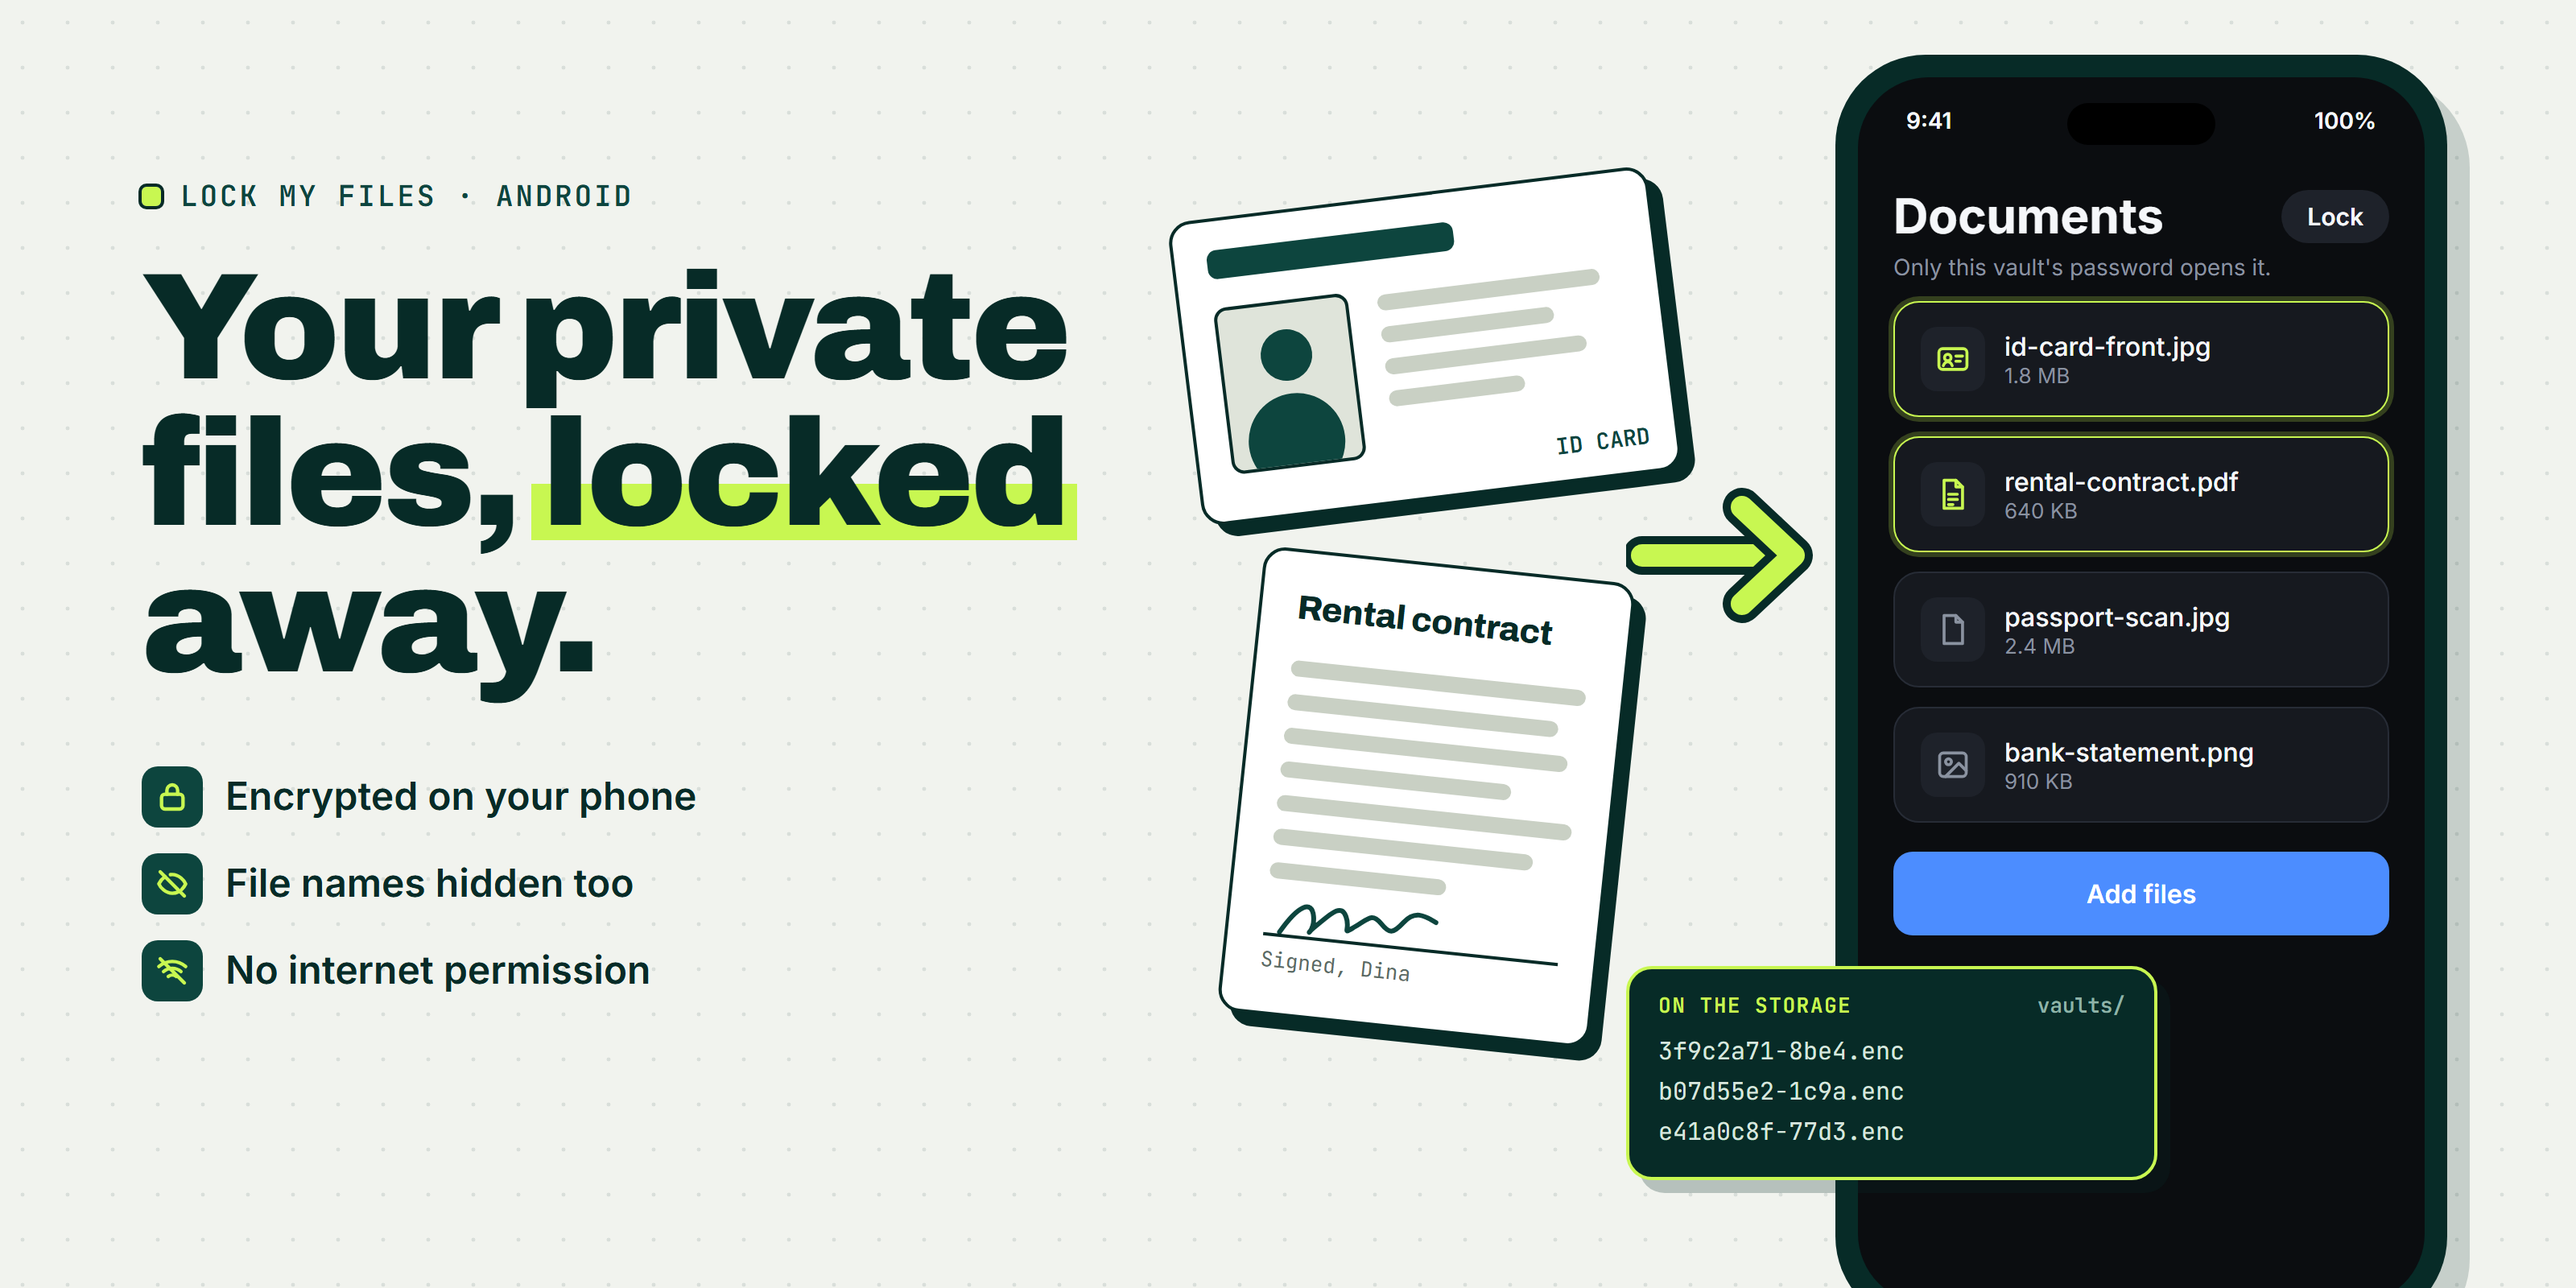
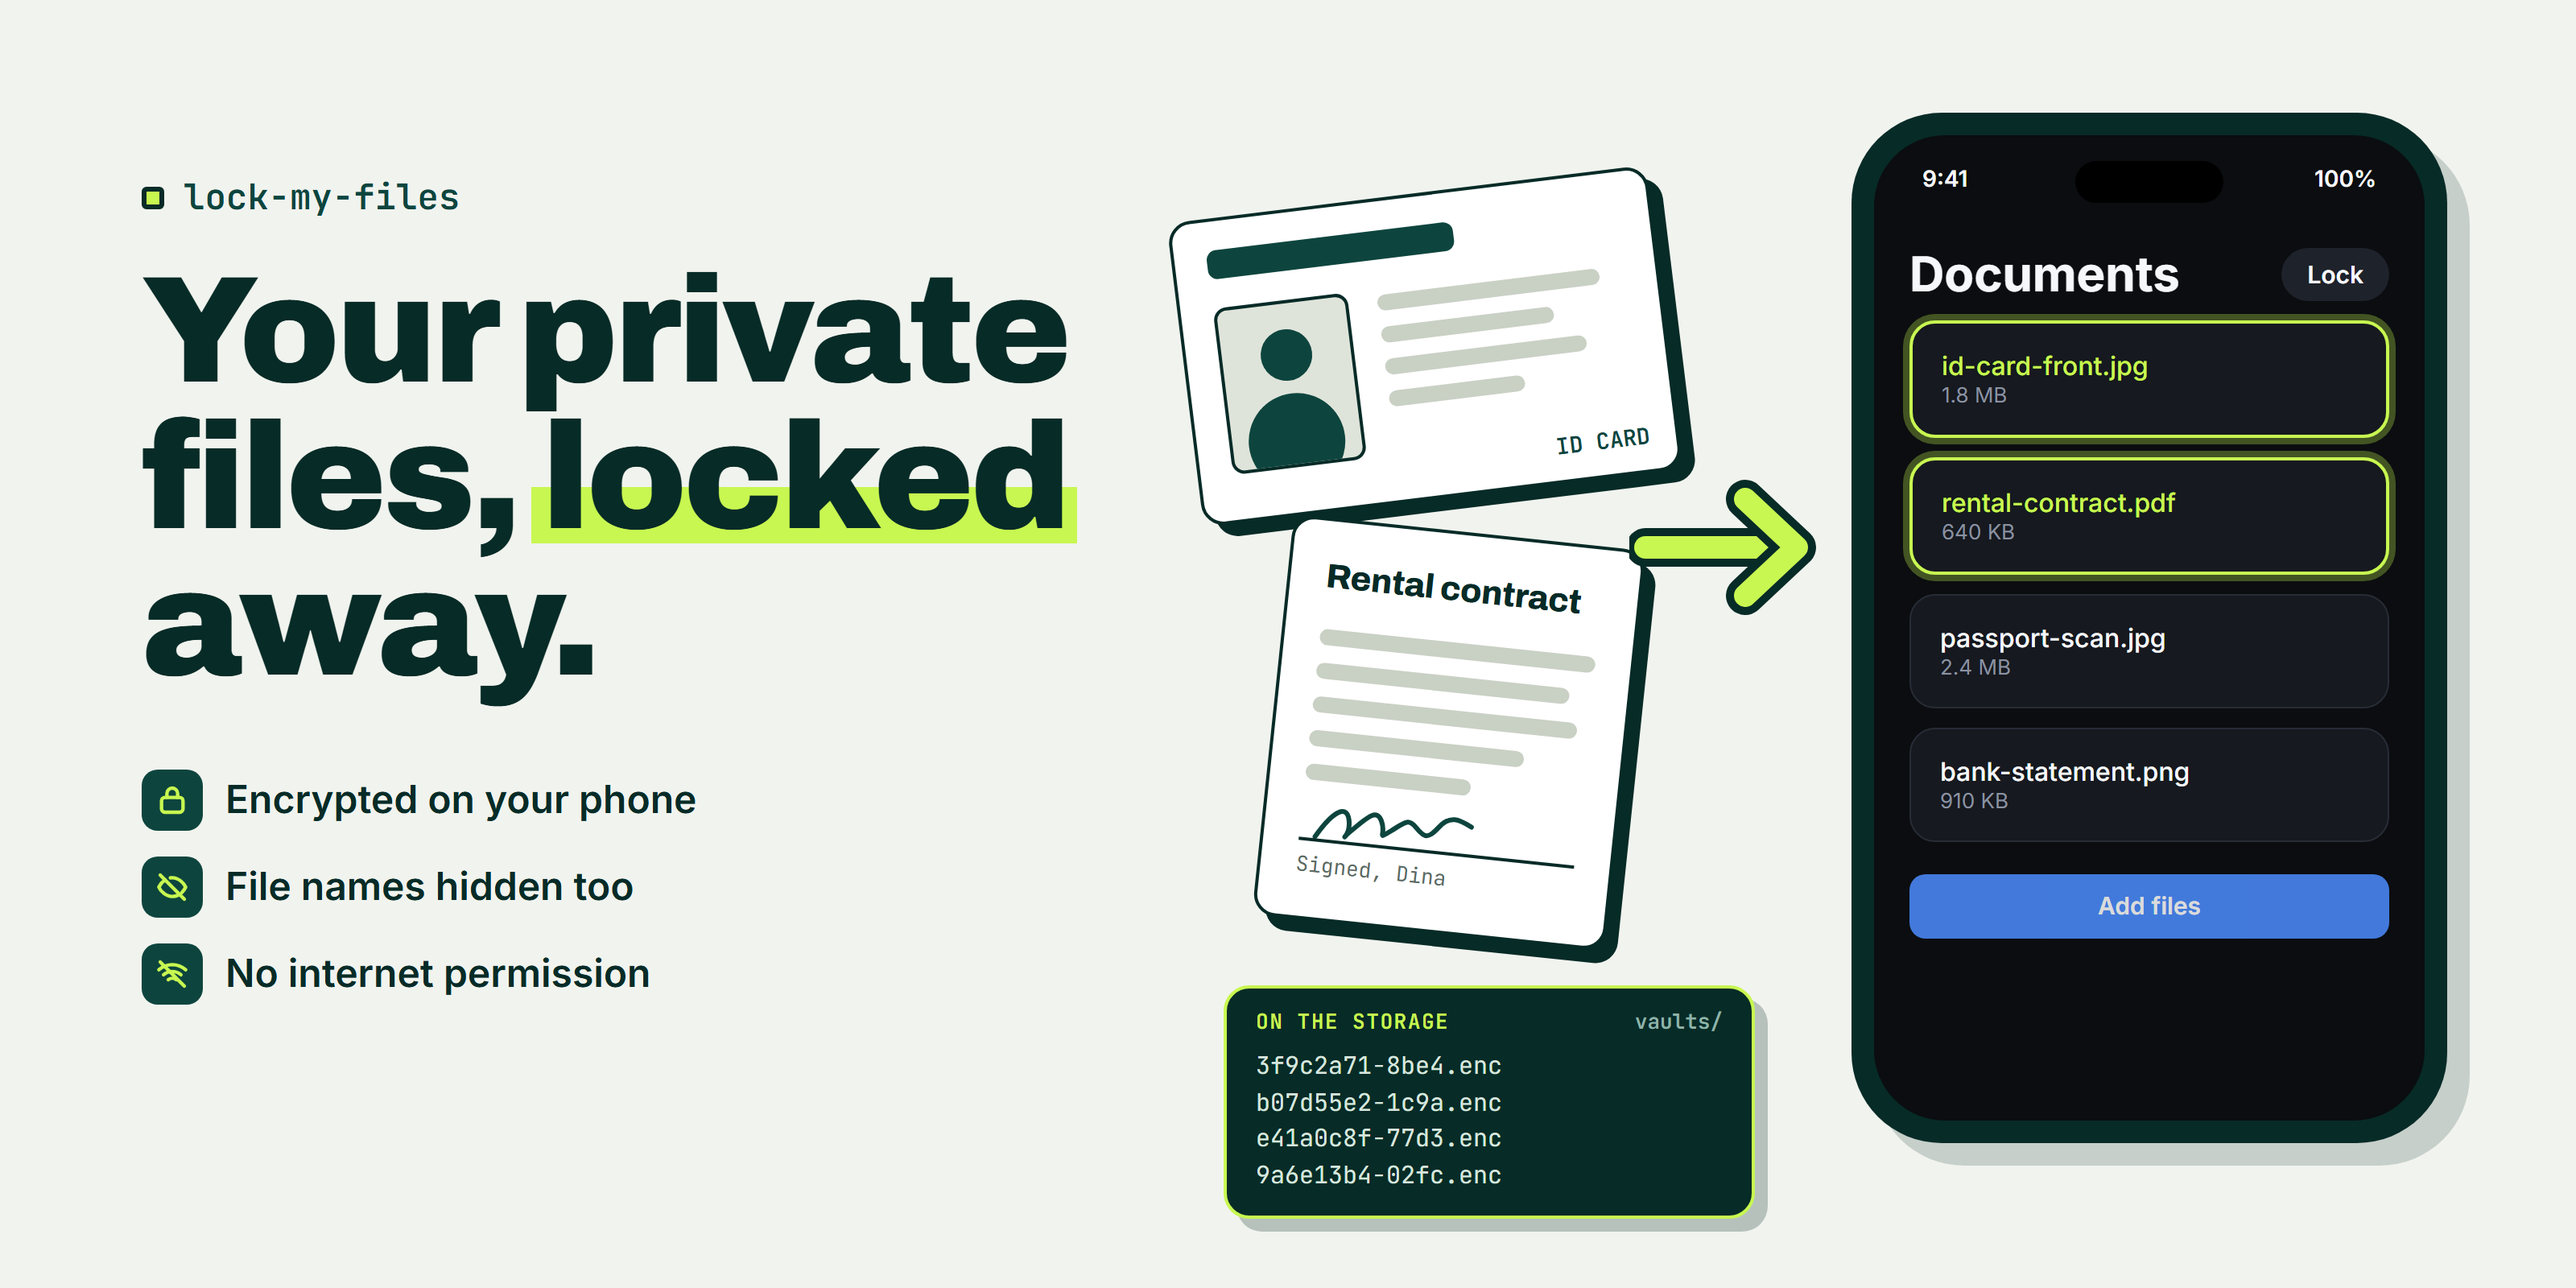
docs(readme): left-aligned header, early-build note moved to Quick start, hero matches the real vault screen

diff --git a/docs/src/hero.html b/docs/src/hero.html
@@ -27,9 +27,8 @@
 
   /* Left: headline */
   .copy { position: absolute; left: 88px; top: 112px; width: 660px; }
-  .eyebrow { display: inline-flex; align-items: center; gap: 12px; font: 600 18px/1 var(--mono);
-    letter-spacing: .08em; text-transform: uppercase; color: var(--field); }
-  .eyebrow .dot { width: 12px; height: 12px; border-radius: 3px; background: var(--signal); outline: 2px solid var(--ink); }
+  .eyebrow { display: inline-flex; align-items: center; gap: 12px; font: 700 22px/1 var(--mono); color: var(--field); }
+  .eyebrow .dot { width: 14px; height: 14px; border-radius: 3px; background: var(--signal); border: 3px solid var(--ink); }
   h1 { margin-top: 26px; font: 900 94px/0.97 var(--head); letter-spacing: -0.025em; color: var(--ink); }
   h1 mark { background: linear-gradient(transparent 56%, var(--signal) 56%, var(--signal) 90%, transparent 90%); color: inherit; padding: 0 6px; margin: 0 -6px; }
   .chips { margin-top: 44px; display: flex; flex-direction: column; gap: 16px; }
@@ -49,44 +48,44 @@
   .lines b { display: block; height: 10px; border-radius: 5px; background: #c9d0c4; }
   .idcard .tag { position: absolute; right: 16px; bottom: 14px; font: 600 14px/1 var(--mono); color: var(--field); }
 
-  .contract { left: 770px; top: 350px; width: 232px; height: 290px; transform: rotate(6deg); padding: 24px 22px; }
+  .contract { left: 790px; top: 330px; width: 220px; height: 250px; transform: rotate(6deg); padding: 24px 22px; }
   .contract h4 { font: 800 21px/1 var(--head); color: var(--ink); letter-spacing: -.01em; }
   .contract .lines { margin-top: 18px; gap: 11px; }
   .contract .sig { position: absolute; left: 22px; right: 22px; bottom: 26px; border-top: 2px solid var(--ink); padding-top: 8px; font: 500 13px/1 var(--mono); color: #5a6b65; }
   .contract .scrawl { position: absolute; left: 28px; bottom: 42px; }
 
-  .arrow { position: absolute; left: 1010px; top: 285px; }
+  .arrow { position: absolute; left: 1012px; top: 280px; }
 
   /* Right: phone with the vault screen */
-  .phone { position: absolute; left: 1140px; top: 34px; width: 380px; height: 790px; border-radius: 56px; background: var(--ink); padding: 14px; box-shadow: 14px 14px 0 rgba(7,43,39,.18); }
+  .phone { position: absolute; left: 1150px; top: 70px; width: 370px; height: 640px; border-radius: 56px; background: var(--ink); padding: 14px; box-shadow: 14px 14px 0 rgba(7,43,39,.18); }
   .screen { width: 100%; height: 100%; border-radius: 44px; background: var(--app-bg); overflow: hidden; position: relative; padding: 60px 22px 0; }
   .notch { position: absolute; left: 50%; top: 16px; transform: translateX(-50%); width: 92px; height: 26px; border-radius: 14px; background: #000; }
   .status { position: absolute; left: 30px; right: 30px; top: 20px; display: flex; justify-content: space-between; font: 600 14px/1 var(--body); color: var(--app-text); }
-  .titlerow { display: flex; align-items: center; justify-content: space-between; margin-top: 10px; }
+  .titlerow { display: flex; align-items: center; justify-content: space-between; margin-top: 10px; margin-bottom: 8px; }
   .titlerow h2 { font: 700 30px/1.1 var(--body); color: var(--app-text); }
   .pill { padding: 9px 16px; border-radius: 999px; background: var(--app-raised); font: 600 15px/1 var(--body); color: var(--app-text); }
   .sub { margin-top: 6px; font: 400 14px/1.3 var(--body); color: var(--app-muted); }
-  .card { margin-top: 12px; background: var(--app-surface); border: 1px solid var(--app-border); border-radius: 16px; padding: 15px 16px; display: flex; align-items: center; gap: 12px; }
-  .card.new { border-color: var(--signal); box-shadow: 0 0 0 3px rgba(200,247,81,.22); }
+  .card { margin-top: 12px; background: var(--app-surface); border: 1px solid var(--app-border); border-radius: 16px; padding: 16px 18px; display: flex; align-items: center; gap: 12px; }
+  .card.new { border: 2px solid var(--signal); box-shadow: 0 0 0 4px rgba(200,247,81,.30); }
+  .card.new .fn { color: var(--signal); }
   .thumb { flex: none; width: 40px; height: 40px; border-radius: 10px; background: var(--app-raised); display: grid; place-items: center; }
   .thumb svg { width: 22px; height: 22px; }
   .ft { flex: 1; min-width: 0; }
   .fn { font: 500 16px/1.25 var(--body); color: var(--app-text); white-space: nowrap; overflow: hidden; text-overflow: ellipsis; }
   .fm { font: 400 13px/1.3 var(--body); color: var(--app-muted); }
-  .btn { margin-top: 18px; height: 52px; border-radius: 12px; background: var(--app-accent); color: #fff; font: 600 16px/52px var(--body); text-align: center; }
+  .btn { margin-top: 20px; height: 40px; border-radius: 10px; background: var(--app-accent); color: #fff; font: 600 15px/40px var(--body); text-align: center; opacity: .85; }
 
   /* What any other app sees on the storage */
-  .disk { position: absolute; left: 1010px; top: 600px; width: 330px; background: var(--ink); border-radius: 16px; padding: 16px 18px 16px; color: #d8e6df; font: 400 15px/1.65 var(--mono); box-shadow: 8px 8px 0 rgba(7,43,39,.25); border: 2px solid var(--signal); }
+  .disk { position: absolute; left: 760px; top: 612px; width: 330px; background: var(--ink); border-radius: 16px; padding: 14px 18px 14px; color: #d8e6df; font: 400 15px/1.5 var(--mono); box-shadow: 8px 8px 0 rgba(7,43,39,.25); border: 2px solid var(--signal); }
   .disk .hd { display: flex; justify-content: space-between; align-items: center; font: 600 13px/1 var(--mono); letter-spacing: .06em; text-transform: uppercase; color: var(--signal); margin-bottom: 10px; }
   .disk .hd span:last-child { color: #8fb3a8; text-transform: none; letter-spacing: 0; }
   .disk .f { white-space: nowrap; }
 </style>
 </head>
 <body>
-  <div class="grid"></div>
 
   <div class="copy">
-    <div class="eyebrow"><span class="dot"></span>Lock My Files &middot; Android</div>
+    <div class="eyebrow"><span class="dot"></span>lock-my-files</div>
     <h1>Your private files, <mark>locked</mark> away.</h1>
     <div class="chips">
       <div class="chip"><i><svg viewBox="0 0 24 24" fill="none" stroke="#C8F751" stroke-width="2.6" stroke-linecap="round" stroke-linejoin="round"><rect x="4" y="10" width="16" height="11" rx="2.5"/><path d="M8 10V7a4 4 0 0 1 8 0v3"/></svg></i>Encrypted on your phone</div>
@@ -108,7 +107,7 @@
   <div class="doc contract">
     <h4>Rental contract</h4>
     <div class="lines">
-      <b></b><b style="width:92%"></b><b style="width:96%"></b><b style="width:78%"></b><b></b><b style="width:88%"></b><b style="width:60%"></b>
+      <b></b><b style="width:92%"></b><b style="width:96%"></b><b style="width:78%"></b><b style="width:60%"></b>
     </div>
     <svg class="scrawl" width="120" height="34" viewBox="0 0 120 34" fill="none" stroke="#0D453E" stroke-width="3" stroke-linecap="round"><path d="M4 26c10-18 18-22 20-12s-6 14 2 6 14-16 18-8-2 12 6 6 10-10 16-4 8 6 14-2 12-6 20-2"/></svg>
     <div class="sig">Signed, Dina</div>
@@ -127,22 +126,17 @@
       <div class="status"><span>9:41</span><span>100%</span></div>
       <div class="notch"></div>
       <div class="titlerow"><h2>Documents</h2><span class="pill">Lock</span></div>
-      <div class="sub">Only this vault's password opens it.</div>
 
       <div class="card new">
-        <div class="thumb"><svg viewBox="0 0 24 24" fill="none" stroke="#C8F751" stroke-width="2" stroke-linejoin="round" stroke-linecap="round"><rect x="2.5" y="5" width="19" height="14" rx="2.5"/><circle cx="8.5" cy="11" r="2.2"/><path d="M5.5 16.5c.6-1.8 1.8-2.6 3-2.6s2.4.8 3 2.6M14 10h4.5M14 13.5h3"/></svg></div>
         <div class="ft"><div class="fn">id-card-front.jpg</div><div class="fm">1.8 MB</div></div>
       </div>
       <div class="card new">
-        <div class="thumb"><svg viewBox="0 0 24 24" fill="none" stroke="#C8F751" stroke-width="2" stroke-linejoin="round" stroke-linecap="round"><path d="M6 2.5h8l4.5 4.5v14.5H6z"/><path d="M14 2.5V7h4.5M9 12h6M9 15.5h6M9 19h3"/></svg></div>
         <div class="ft"><div class="fn">rental-contract.pdf</div><div class="fm">640 KB</div></div>
       </div>
       <div class="card">
-        <div class="thumb"><svg viewBox="0 0 24 24" fill="none" stroke="#8A92A0" stroke-width="2" stroke-linejoin="round" stroke-linecap="round"><path d="M6 2.5h8l4.5 4.5v14.5H6z"/><path d="M14 2.5V7h4.5"/></svg></div>
         <div class="ft"><div class="fn">passport-scan.jpg</div><div class="fm">2.4 MB</div></div>
       </div>
       <div class="card">
-        <div class="thumb"><svg viewBox="0 0 24 24" fill="none" stroke="#8A92A0" stroke-width="2" stroke-linejoin="round" stroke-linecap="round"><rect x="3" y="4" width="18" height="16" rx="2.5"/><circle cx="9" cy="10" r="2"/><path d="M21 16l-5-5-9 9"/></svg></div>
         <div class="ft"><div class="fn">bank-statement.png</div><div class="fm">910 KB</div></div>
       </div>
       <div class="btn">Add files</div>
@@ -154,6 +148,7 @@
     <div class="f">3f9c2a71-8be4.enc</div>
     <div class="f">b07d55e2-1c9a.enc</div>
     <div class="f">e41a0c8f-77d3.enc</div>
+    <div class="f">9a6e13b4-02fc.enc</div>
   </div>
 </body>
 </html>

diff --git a/README.md b/README.md
@@ -1,22 +1,13 @@
-<div align="center">
-
 # Lock My Files
 
 **Keep your ID cards, contracts and private photos out of the gallery, locked behind a password only you know.**
 
-Source is not public yet. The APK is free to use.
-
 [![Version 0.1.0](https://img.shields.io/badge/version-0.1.0-green.svg)](CHANGELOG.md)
-[![GitHub stars](https://img.shields.io/github/stars/BrianArfi/lock-my-files?style=social)](https://github.com/BrianArfi/lock-my-files/stargazers)
 [![Made for Android 7+](https://img.shields.io/badge/made%20for-Android%207%2B-3DDC84.svg)](docs/install.md#requirements)
 
-<img src="docs/hero.png" width="880" alt="An ID card and a signed rental contract go into a phone vault called Documents, which lists them next to a passport scan and a bank statement. Below it, the storage shows only scrambled .enc file names. Headline: Your private files, locked away.">
+![Illustration: an ID card and a signed rental contract go into a phone vault called Documents, which lists them with their sizes next to a passport scan and a bank statement. Beside it, the storage shows only scrambled .enc file names. Headline: Your private files, locked away.](docs/hero.png)
 
 **[Download the Android app (APK)](https://github.com/BrianArfi/lock-my-files/releases/latest)**
-
-**Early build, not yet tested on a real phone. Keep a copy of anything important elsewhere.**
-
-</div>
 
 ## Why
 
@@ -31,6 +22,8 @@ Your ID scans, contracts and private photos sit in the gallery and the cloud, ne
 - **Gives you 12 recovery words per vault**, for the day you forget the password.
 
 ## Quick start
+
+> **Early build.** v0.1.0 is not yet tested on a real phone, so keep a copy of anything important elsewhere. The source is not public yet; the APK is free to use.
 
 1. On your phone, download `lock-my-files-0.1.0.apk` from the [latest release](https://github.com/BrianArfi/lock-my-files/releases/latest).
 2. Allow "Install unknown apps" for your browser when Android asks.
